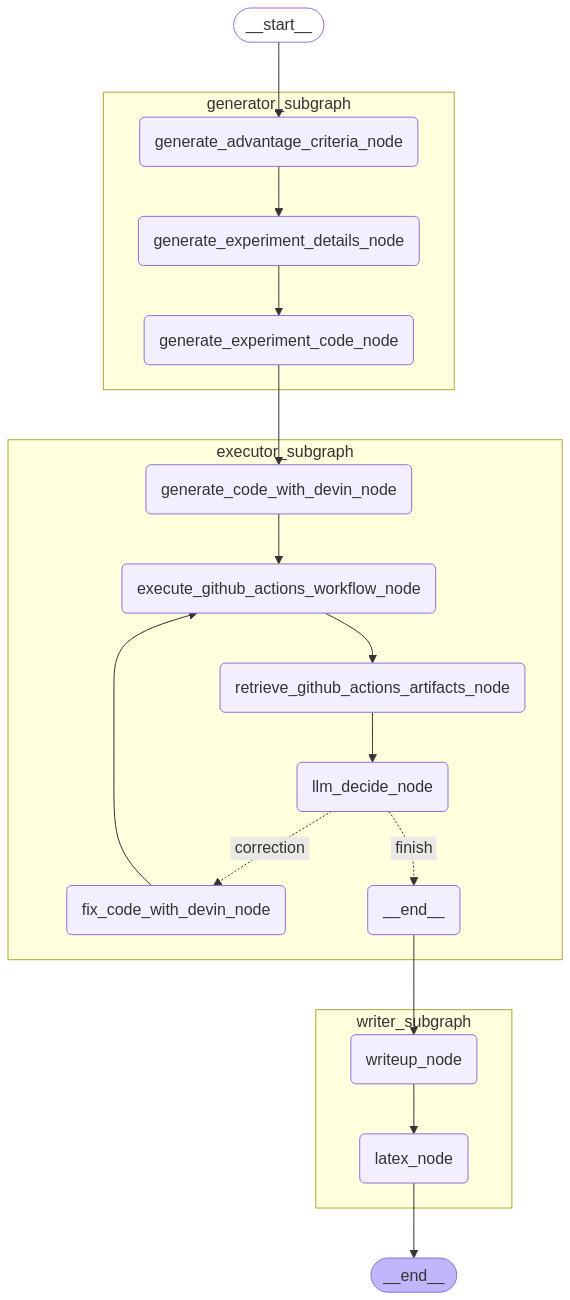
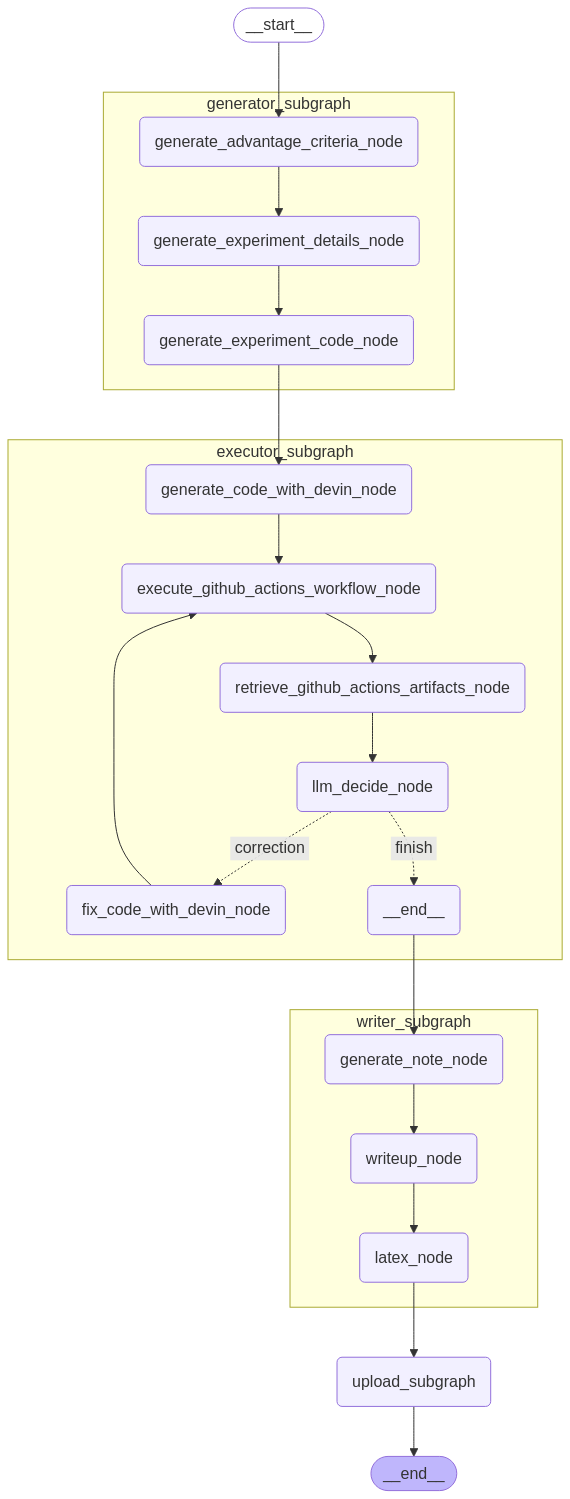
feat：UIのアップデート

diff --git a/src/researchgraph/ui/main.py b/src/researchgraph/ui/main.py
@@ -1,5 +1,12 @@
 import streamlit as st
 
+from researchgraph.generator_subgraph.generator_subgraph import GeneratorSubgraph
+from researchgraph.generator_subgraph.input_data import generator_subgraph_input_data
+from researchgraph.executor_subgraph.executor_subgraph import ExecutorSubgraph
+from researchgraph.writer_subgraph.writer_subgraph import WriterSubgraph
+from researchgraph.upload_subgraph.upload_subgraph import UploadSubgraph
+
+
 st.markdown("# Research Graph")
 st.markdown("Research Graphは，機械学習研究の完全な自動化目的に開発しています．")
 
@@ -10,24 +17,196 @@ with st.sidebar:
     st.markdown("https://github.com/auto-res/researchgraph")
 
 
+repository = st.text_input(
+    "新規手法の実装を管理するGitHubリポジトリ", value="auto-res2/auto-research"
+)
+github_owner, repository_name = repository.split("/", 1)
+st.markdown("- https://github.com/auto-res2/auto-research")
+
+on = st.toggle("Research Graphのアーキテクチャ")
+if on:
+    st.image("/workspaces/researchgraph/images/research_graph.png")
+
 (ret, gen, exec, write, up) = st.tabs(
     ["Retriever", "Generator", "Executor", "Writer", "Uploader"]
 )
 
+# 共通の設定項目
+save_dir = "/workspaces/researchgraph/data"
+latex_template_file_path = "/workspaces/researchgraph/data/latex/template.tex"
+figures_dir = "/workspaces/researchgraph/images"
+pdf_file_path = "/workspaces/researchgraph/data/test_output.pdf"
 
+
+# Retriever Subgraph
 ret.markdown("## Retriever")
 ret.markdown("Retriever Subgraphは，研究論文を取得するためのサブグラフです．")
+if ret.button("研究のための論文を取得"):
+    ret.write("実行中")
+    retriever_output = {}
+else:
+    ret.write("未実行")
+    retriever_output = {}
+ret.json(retriever_output)
 
 
+# Generator Subgraph
 gen.markdown("## Generator")
 gen.markdown("Generator Subgraphは，新規手法を生成するためのサブグラフです．")
 
+on = gen.toggle("Generator Subgraphのアーキテクチャ")
+if on:
+    gen.image("/workspaces/researchgraph/images/generator_subgraph.png")
 
+# new_method = ""
+# experiment_code = ""
+# verification_policy = ""
+# experiment_details = ""
+if gen.button("新規手法の生成"):
+    gen.write("実行中")
+    generator_subgraph = GeneratorSubgraph().build_graph()
+    with st.spinner("Wait for it...", show_time=True):
+        for event in generator_subgraph.stream(
+            generator_subgraph_input_data, stream_mode="updates"
+        ):
+            node_name = list(event.keys())[0]
+            gen.markdown(f"{node_name}の実行結果")
+            # if event[node_name].get("new_method", ""):
+            #     st.session_state["new_method"] = event[node_name]["new_method"]
+            if event[node_name].get("experiment_code", ""):
+                st.session_state["experiment_code"] = event[node_name][
+                    "experiment_code"
+                ]
+            if event[node_name].get("verification_policy", ""):
+                st.session_state["verification_policy"] = event[node_name][
+                    "verification_policy"
+                ]
+            if event[node_name].get("experiment_details", ""):
+                st.session_state["experiment_details"] = event[node_name][
+                    "experiment_details"
+                ]
+            gen.json(event[node_name], expanded=False)
+else:
+    gen.write("未実行")
+
+
+# Executor Subgraph
 exec.markdown("## Executor")
 exec.markdown("Executor Subgraphは，新規手法の実験をするサブグラフです．")
 
+on = exec.toggle("Executor Subgraphのアーキテクチャ")
+if on:
+    exec.image("/workspaces/researchgraph/images/executor_subgraph.png")
+
+max_code_fix_iteration = exec.slider(
+    label="コードの修正回数", min_value=0, max_value=10, value=3, step=1
+)
+
+output_text_data = ""
+devin_url = ""
+branch_name = ""
+if exec.button("新規手法の実験"):
+    exec.write("実行中")
+    executor_subgraph_input_data = {
+        "fix_iteration_count": 0,
+        "new_method": generator_subgraph_input_data["new_method"],
+        "experiment_code": st.session_state["experiment_code"],
+    }
+    executor_subgraph = ExecutorSubgraph(
+        github_owner=github_owner,
+        repository_name=repository_name,
+        save_dir=save_dir,
+        max_code_fix_iteration=max_code_fix_iteration,
+    ).build_graph()
+    with st.spinner("Wait for it...", show_time=True):
+        for event in executor_subgraph.stream(
+            executor_subgraph_input_data, stream_mode="updates"
+        ):
+            node_name = list(event.keys())[0]
+            gen.markdown(f"{node_name}の実行結果")
+            if event[node_name].get("devin_url", ""):
+                st.session_state["devin_url"] = event[node_name]["devin_url"]
+                exec.markdown(f"- Devin URL: {st.session_state['devin_url']}")
+            if event[node_name].get("branch_name", ""):
+                st.session_state["branch_name"] = event[node_name]["branch_name"]
+            if event[node_name].get("output_text_data", ""):
+                st.session_state["output_text_data"] = event[node_name][
+                    "output_text_data"
+                ]
+            gen.json(event[node_name], expanded=False)
+else:
+    exec.write("未実行")
+
+
+# Writer Subgraph
 write.markdown("## Writer")
 write.markdown("Writer Subgraphは，論文を執筆するためのサブグラフです．")
 
+on = write.toggle("Writer Subgraphのアーキテクチャ")
+if on:
+    write.image("/workspaces/researchgraph/images/writer_subgraph.png")
+
+llm_name = write.selectbox(
+    "「論文執筆」「Texへの変換」に使用するLLM",
+    ("gpt-4o-mini-2024-07-18", "gpt-4o-2024-11-20"),
+)
+
+# paper_content = {}
+if write.button("論文の執筆"):
+    write.write("実行中")
+    writer_subgraph_input_data = {
+        "new_method": st.session_state["new_method"],
+        "verification_policy": st.session_state["verification_policy"],
+        "experiment_details": st.session_state["experiment_details"],
+        "experiment_code": st.session_state["experiment_code"],
+        "output_text_data": st.session_state["output_text_data"],
+    }
+    writer_subgraph = WriterSubgraph(
+        llm_name=llm_name,
+        latex_template_file_path=latex_template_file_path,
+        figures_dir=figures_dir,
+        pdf_file_path=pdf_file_path,
+    ).build_graph()
+    with st.spinner("Wait for it...", show_time=True):
+        for event in writer_subgraph.stream(
+            writer_subgraph_input_data, stream_mode="updates"
+        ):
+            node_name = list(event.keys())[0]
+            gen.markdown(f"{node_name}の実行結果")
+            if event[node_name].get("paper_content", ""):
+                st.session_state["paper_content"] = event[node_name]["paper_content"]
+            gen.json(event[node_name], expanded=False)
+else:
+    write.write("未実行")
+
+
+# Uploader Subgraph
 up.markdown("## Uploader")
 up.markdown("Uploader Subgraphは，論文をアップロードするためのサブグラフです．")
+
+on = up.toggle("Uploader Subgraphのアーキテクチャ")
+if on:
+    up.image("/workspaces/researchgraph/images/upload_subgraph.png")
+
+if up.button("GitHubに結果をアップロード"):
+    up.write("実行中")
+    upload_subgraph_input_data = {
+        "paper_content": {
+            "Title": st.session_state["paper_content"].get("Title", ""),
+            "Abstract": st.session_state["paper_content"].get("Abstract", ""),
+        },
+        "branch_name": st.session_state["branch_name"],
+        "devin_url": st.session_state["devin_url"],
+    }
+    upload_subgraph = UploadSubgraph(
+        github_owner=github_owner,
+        repository_name=repository_name,
+        pdf_file_path=pdf_file_path,
+    ).build_graph()
+    upload_output = upload_subgraph.invoke(upload_subgraph_input_data)
+    if upload_output["completion"]:
+        up.markdown(
+            f"- GitHub URL: https://github.com/{repository}/tree/{upload_output['branch_name']}"
+        )
+else:
+    up.write("未実行")

diff --git a/src/researchgraph/utils/get_graph.py b/src/researchgraph/utils/get_graph.py
@@ -3,6 +3,11 @@ from IPython.display import Image
 from langgraph.graph.graph import CompiledGraph
 
 from researchgraph.research_graph import ResearchGraph
+from researchgraph.generator_subgraph.generator_subgraph import GeneratorSubgraph
+from researchgraph.executor_subgraph.executor_subgraph import ExecutorSubgraph
+from researchgraph.writer_subgraph.writer_subgraph import WriterSubgraph
+from researchgraph.upload_subgraph.upload_subgraph import UploadSubgraph
+
 
 IMAGE_SAVE_DIR = "/workspaces/researchgraph/images"
 
@@ -39,33 +44,47 @@ if __name__ == "__main__":
     #     llm_name=llm_name,
     # ).build_graph()
 
-    # executor_subgraph = ExecutorSubgraph(
-    #     max_fix_iteration=3,
-    # ).build_graph()
+    generator_subgraph = GeneratorSubgraph().build_graph()
 
-    # writer_graph = WriterSubgraph(
-    #     llm_name=llm_name,
-    #     latex_template_file_path=latex_template_file_path,
-    #     figures_dir=figures_dir,
-    # ).build_graph()
+    executor_subgraph = ExecutorSubgraph(
+        github_owner="auto-res2",
+        repository_name="auto-research",
+        save_dir=save_dir,
+        max_code_fix_iteration=3,
+    ).build_graph()
+
+    writer_graph = WriterSubgraph(
+        llm_name=llm_name,
+        latex_template_file_path=latex_template_file_path,
+        figures_dir=figures_dir,
+        pdf_file_path="/workspaces/researchgraph/data/test_output.pdf",
+    ).build_graph()
+
+    upload_subgraph = UploadSubgraph(
+        github_owner="auto-res2",
+        repository_name="auto-research",
+        pdf_file_path="/workspaces/researchgraph/data/test_output.pdf",
+    ).build_graph()
 
     research_graph = ResearchGraph(
         llm_name=llm_name,
         save_dir=save_dir,
-        max_fix_iteration=3,
+        max_code_fix_iteration=3,
+        github_owner="auto-res2",
+        repository_name="auto-research",
+        pdf_file_path="/workspaces/researchgraph/data/test_output.pdf",
         latex_template_file_path=latex_template_file_path,
         figures_dir=figures_dir,
     ).build_graph()
 
     # make_image(graph=retrieve_paper_subgraph, file_name="retrieve_paper_subgraph.png")
     # make_image(graph=deep_research_subgraph, file_name="deep_research_subgraph.png")
-    # make_image(
-    #     graph=integrate_generator_subgraph, file_name="integrate_generator_subgraph.png"
-    # )
-    # make_image(graph=executor_subgraph, file_name="executor_subgraph.png")
-    # make_image(graph=writer_graph, file_name="writer_subgraph.png")
+    make_image(graph=generator_subgraph, file_name="generator_subgraph.png")
+    make_image(graph=executor_subgraph, file_name="executor_subgraph.png")
+    make_image(graph=writer_graph, file_name="writer_subgraph.png")
+    make_image(graph=upload_subgraph, file_name="upload_subgraph.png")
     make_image(graph=research_graph, file_name="research_graph.png")
-    print_mermaid(research_graph)
+    # print_mermaid(research_graph)
     # print_mermaid(retrieve_paper_subgraph)
     # print_mermaid(deep_research_subgraph)
     # print_mermaid(integrate_generator_subgraph)

diff --git a/src/researchgraph/generator_subgraph/generator_subgraph.py b/src/researchgraph/generator_subgraph/generator_subgraph.py
@@ -98,13 +98,17 @@ class GeneratorSubgraph:
 
 if __name__ == "__main__":
     graph = GeneratorSubgraph().build_graph()
-
-    output = graph.invoke(
-        generator_subgraph_input_data,
-    )
+    # output = graph.invoke(
+    #     generator_subgraph_input_data,
+    # )
     # print(output)
-    import pprint
+    # graph_nodes = list(graph.nodes.keys())[1:]
+    for event in graph.stream(generator_subgraph_input_data, stream_mode="updates"):
+        # print(node)
+        node_name = list(event.keys())[0]
+        print(node_name)
+        print(event[node_name])
 
     # pprint.pprint(output["verification_policy"])
-    pprint.pprint(output["experiment_details"])
+    # pprint.pprint(output["experiment_details"])
     # pprint.pprint(output["experiment_code"])
